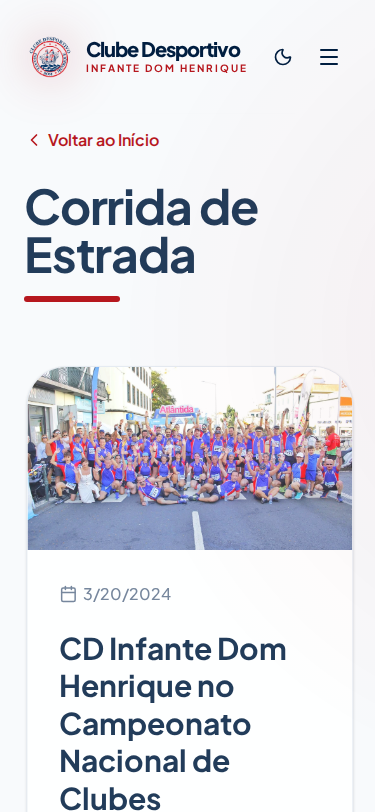
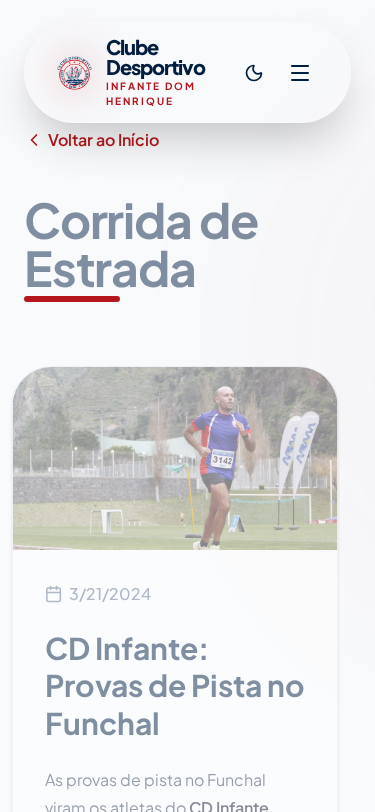
feat: automate post discovery and enhance example content
- Refactored content system to use Vite's `import.meta.glob` for automatic discovery of all `.md` files in `src/content/sports/`.
- Removed manual `index.json` manifest requirement.
- Relocated sports post template to `docs/templates/` with detailed usage guidelines.
- Generated additional authentic example posts for all 7 sports disciplines.
- Refined navigation logic to correctly handle absolute and hash links.
- Verified visual integrity and functionality via Playwright.

diff --git a/src/lib/content.ts b/src/lib/content.ts
@@ -24,20 +24,30 @@ interface FrontMatterAttributes {
 }
 
 /**
- * Fetches and parses a specific post's markdown file.
+ * Uses Vite's glob import to automatically discover all Markdown files in the
+ * src/content/sports directory. This ensures new posts are picked up without
+ * manual registration in a JSON manifest.
+ */
+const allPosts = import.meta.glob('../content/sports/**/*.md', { query: '?raw', import: 'default' });
+
+/**
+ * Fetches and parses a specific post's markdown content.
  *
  * @param sport - The directory name of the sport (e.g., 'handball').
  * @param slug - The filename of the post without the .md extension.
  * @returns A Post object.
  */
 export async function getPost(sport: string, slug: string): Promise<Post> {
-  const response = await fetch(`/content/sports/${sport}/${slug}.md`);
-  if (!response.ok) {
-    throw new Error(`Failed to fetch post: ${slug}`);
+  const path = `../content/sports/${sport}/${slug}.md`;
+  const fetcher = allPosts[path];
+
+  if (!fetcher) {
+    throw new Error(`Post not found: ${path}`);
   }
-  const text = await response.text();
+
+  const rawContent = await fetcher() as string;
   // @ts-expect-error front-matter return type
-  const { attributes, body } = fm(text);
+  const { attributes, body } = fm(rawContent);
 
   return {
     slug,
@@ -48,32 +58,27 @@ export async function getPost(sport: string, slug: string): Promise<Post> {
 }
 
 /**
- * Fetches the list of post filenames for a given sport from a manifest file.
- * Since we are in a static client-side environment, we'll use a `posts.json` manifest
- * per sport that needs to be updated or we will fetch it from an API/Search if available.
+ * Discovers all posts for a given sport by scanning the imported glob.
  *
- * For simplicity and GitHub editing friendliness, we'll recommend maintaining a
- * `posts.json` in each sport's directory or we could fetch the directory list
- * if the server allows it. In GitHub Pages/Vite, we can't easily list files at runtime
- * without an external API (like GitHub's).
- *
- * Strategy: A small JSON index file in each directory.
+ * @param sport - The directory name of the sport.
+ * @returns An array of Post objects sorted by date descending.
  */
 export async function getSportPosts(sport: string): Promise<Post[]> {
   try {
-    const response = await fetch(`/content/sports/${sport}/index.json`);
-    if (!response.ok) {
-      return [];
-    }
-    const { posts }: { posts: string[] } = await response.json();
+    const sportPrefix = `../content/sports/${sport}/`;
+    const sportPosts = Object.keys(allPosts).filter(path => path.startsWith(sportPrefix));
 
-    const postPromises = posts.map(slug => getPost(sport, slug));
-    const allPosts = await Promise.all(postPromises);
+    const postPromises = sportPosts.map(async (path) => {
+      const slug = path.split('/').pop()?.replace('.md', '') || '';
+      return getPost(sport, slug);
+    });
+
+    const results = await Promise.all(postPromises);
 
     // Sort by date descending
-    return allPosts.sort((a, b) => new Date(b.date).getTime() - new Date(a.date).getTime());
+    return results.sort((a, b) => new Date(b.date).getTime() - new Date(a.date).getTime());
   } catch (error) {
-    console.error(`Error fetching posts for ${sport}:`, error);
+    console.error(`Error discovering posts for ${sport}:`, error);
     return [];
   }
 }

diff --git a/tests/sports-pages.spec.ts b/tests/sports-pages.spec.ts
@@ -7,7 +7,6 @@ test('verify sports pages and navigation', async ({ page }) => {
   await expect(page.locator('h1')).toContainText('Clube Desportivo');
 
   // Find a sports card (Handball) and click it
-  // Need to be careful with "Andebol" vs "Andebol" if i18n is not set yet, but default is pt.
   const handballCard = page.locator('h3:has-text("Andebol")');
   await handballCard.click();
 
@@ -17,8 +16,9 @@ test('verify sports pages and navigation', async ({ page }) => {
   // Verify sport name is visible
   await expect(page.locator('h1')).toContainText('Andebol');
 
-  // Check if the post is loaded (using the title from the news)
-  await expect(page.locator('h2')).toContainText('Andebol em Destaque');
+  // Check if at least one post is loaded (titles are dynamic now)
+  const postTitle = page.locator('h2');
+  await expect(postTitle).not.toBeEmpty();
 
   // Go back home
   await page.click('text=Voltar ao Início');
@@ -29,7 +29,11 @@ test('verify sports pages and navigation', async ({ page }) => {
   await roadRunningCard.click();
   await expect(page).toHaveURL(/\/sports\/road-running/);
   await expect(page.locator('h1')).toContainText('Corrida de Estrada');
-  await expect(page.locator('h2')).toContainText('Campeonato Nacional de Clubes');
+
+  // Verify multiple posts exist in the sidebar
+  const sidebarPosts = page.locator('button h4');
+  const count = await sidebarPosts.count();
+  expect(count).toBeGreaterThanOrEqual(1);
 
   // Verify responsive view screenshot
   await page.setViewportSize({ width: 375, height: 812 });

diff --git a/src/App.tsx b/src/App.tsx
@@ -152,17 +152,28 @@ const NavItem = ({
   children: React.ReactNode;
   onClick?: () => void;
 }) => {
-  const isExternal = href.startsWith('http') || href.startsWith('#');
+  const isHash = href.startsWith('#');
+  const isAbsolute = href.startsWith('http');
 
-  if (isExternal) {
+  if (isAbsolute) {
+    return (
+      <a
+        href={href}
+        target="_blank"
+        rel="noopener noreferrer"
+        className="text-sm font-semibold text-brand-navy/70 hover:text-brand-red dark:text-slate-300 dark:hover:text-brand-red transition-all py-2 px-1 tracking-wide focus-visible:outline-2 focus-visible:outline-brand-red focus-visible:outline-offset-4 rounded-sm"
+      >
+        {children}
+      </a>
+    );
+  }
+
+  if (isHash) {
     return (
       <Link
         to={`/${href}`}
-        onClick={(e) => {
+        onClick={() => {
           if (onClick) onClick();
-          if (window.location.pathname !== '/') {
-            // Navigation handled by Link to /, but we might need to scroll after
-          }
         }}
         className="text-sm font-semibold text-brand-navy/70 hover:text-brand-red dark:text-slate-300 dark:hover:text-brand-red transition-all py-2 px-1 tracking-wide focus-visible:outline-2 focus-visible:outline-brand-red focus-visible:outline-offset-4 rounded-sm"
       >

diff --git a/docs/templates/sport_post_template.md b/docs/templates/sport_post_template.md
@@ -1,0 +1,30 @@
+# Sports Discipline Post Template
+
+Use this template as a guide to creating new posts for any sport.
+Save the file as `post-slug.md` in `src/content/sports/sport-name/`.
+
+```markdown
+---
+title: "Título Impactante"
+date: "YYYY-MM-DD"
+image: "/images/highlight-image.jpg"
+description: "Resumo curto do post para a lista de novidades."
+images:
+  - "/images/gallery-image-1.jpg"
+  - "/images/gallery-image-2.jpg"
+---
+
+O conteúdo do seu post em **Markdown** vai aqui.
+
+Pode incluir links para o [Facebook](https://www.facebook.com/CDInfante) ou outras redes sociais.
+
+Não se esqueça das hashtags: #CDInfante #Desporto #Madeira
+```
+
+### Guidelines
+
+1. **Title**: Keep it clear and engaging.
+2. **Date**: Use the `YYYY-MM-DD` format (e.g., `2024-03-25`).
+3. **Images**: You can use URLs or local paths from the `public/` folder.
+4. **Description**: This is what appears in the preview list. Keep it under 150 characters.
+5. **Slug**: The filename determines the URL part, use lowercase and hyphens (e.g., `nacional-judo-2024.md`).

diff --git a/src/content/sports/road-running/sao-silvestre.md b/src/content/sports/road-running/sao-silvestre.md
@@ -1,0 +1,13 @@
+---
+title: "CD Infante: São Silvestre do Funchal com Presença Forte"
+date: "2023-12-28"
+image: "https://scontent.ffnc2-1.fna.fbcdn.net/v/t39.30808-6/517385675_1243952650855070_7174172134004013214_n.jpg?_nc_cat=106&ccb=1-7&_nc_sid=13d280&_nc_ohc=Ht6miKefkLcQ7kNvwEF0PHR&_nc_oc=Adr-mJpcwFDsTfNJCMJkQ_3s4ITOvIuZ45iM85T5SyfFNlKAiEdmj2aZsOQaQZYU1n_vDUXwd0_t8U-db6nC64fK&_nc_zt=23&_nc_ht=scontent.ffnc2-1.fna&_nc_gid=edt5Fx1uqte6cp5ylp1Edg&_nc_ss=7a32e&oh=00_Afz0P2BPVRVnrvkC6-DOFQzos0iGlj_nTKsmQjgiuhIZ9w&oe=69C4DC6F"
+description: "Mais uma participação memorável na clássica São Silvestre do Funchal pelos nossos corredores de estrada."
+images: []
+---
+
+A noite do Funchal brilhou com a passagem dos atletas do CD Infante Dom Henrique na mítica prova de São Silvestre. Dezenas de corredores do nosso clube participaram nesta festa do atletismo regional.
+
+O convívio e a alegria de correr pelas ruas iluminadas do Funchal marcam sempre esta prova especial do nosso calendário.
+
+#SaoSilvestre #Funchal #Infante #Atletismo

diff --git a/src/content/sports/judo/graduacoes-primavera.md b/src/content/sports/judo/graduacoes-primavera.md
@@ -1,0 +1,13 @@
+---
+title: "Judo em Foco: Graduações de Primavera"
+date: "2024-03-25"
+image: "https://scontent.ffnc2-1.fna.fbcdn.net/v/t39.30808-6/555491580_1308130501103951_8891449616780622006_n.jpg?_nc_cat=108&ccb=1-7&_nc_sid=13d280&_nc_ohc=xpgmdzP878QQ7kNvwGqRCtl&_nc_oc=AdpZXSWk7KiCW8K_3r5nPpQIUwNVXwZIEA8mZ6KAyQV79FxhlN2w0wYfUaRJw7J8JbV9zi6pPpzd3hzM&_nc_zt=23&_nc_ht=scontent.ffnc2-1.fna&_nc_gid=RlJQhi2lOGz7RGJbsYe7qg&_nc_ss=7a32e&oh=00_Afw8Nv5rABDDlnu75o-3dZasO6hSls7UNaRKrSBQbVSfxQ&oe=69C4E034"
+description: "Mais um passo na evolução dos nossos atletas de judo com a entrega de novas graduações."
+images: []
+---
+
+É com enorme orgulho que celebramos a entrega das novas graduações aos nossos atletas da secção de judo. Cada cinto representa meses de esforço, dedicação e superação constante.
+
+Muitos parabéns a todos os atletas pela sua evolução e aos mestres pelo excelente trabalho desenvolvido na nossa formação.
+
+#Judo #Infante #Graduacoes #DesportoMadeira

diff --git a/src/content/sports/handball/andebol-senior.md b/src/content/sports/handball/andebol-senior.md
@@ -1,0 +1,13 @@
+---
+title: "CD Infante: Andebol Sénior Masculino em Destaque"
+date: "2024-03-24"
+image: "https://scontent.ffnc2-1.fna.fbcdn.net/v/t39.30808-6/518312337_1247530197163982_3412159863800210848_n.jpg?stp=cp6_dst-jpg_tt6&_nc_cat=110&ccb=1-7&_nc_sid=13d280&_nc_ohc=P0ZNf1iZLmsQ7kNvwEH3V3h&_nc_oc=Adrg-UbPIRXcVfohDjcg4RXVq3yZ1ROBlS-2GtIrtCgBwzbfyLNua36NaWGgf87cgKTQBWrqMVHBOCTrC1gCsz61&_nc_zt=23&_nc_ht=scontent.ffnc2-1.fna&_nc_gid=pNOZlqjyp9xfOdE8ibhIsQ&_nc_ss=7a32e&oh=00_AfwZIPqzhGQFtoaCdMBXEZQxDUnOnDtT2oghbaFYa9ZavQ&oe=69C4D3D0"
+description: "Mais uma jornada de superação e espírito de equipa no andebol sénior masculino do Infante."
+images: []
+---
+
+As nossas equipas de andebol sénior continuam a lutar com brio nas competições regionais. A garra demonstrada em campo é o reflexo de todo o trabalho realizado nos treinos semanais.
+
+Contamos com o vosso apoio no pavilhão para empurrar as nossas equipas para a vitória!
+
+#Andebol #CDInfante #Senior #Desporto

diff --git a/src/content/sports/trail-running/trail-calheta.md b/src/content/sports/trail-running/trail-calheta.md
@@ -1,0 +1,13 @@
+---
+title: "CD Infante: Trail da Calheta em Grande Estilo"
+date: "2024-03-27"
+image: "https://scontent.ffnc2-1.fna.fbcdn.net/v/t39.30808-6/510277858_1230731038843898_1160586756874725884_n.jpg?_nc_cat=100&ccb=1-7&_nc_sid=13d280&_nc_ohc=osLbrT2WYiQQ7kNvwGdugV_&_nc_oc=AdrR4Zgu6Z39yazK8fn90AgCbDaZm_j4fkd8oka_NecDB_Y-bABfo2rAT35oWTDIMLmW1c618Wngv4XdwivATKC6&_nc_zt=23&_nc_ht=scontent.ffnc2-1.fna&_nc_gid=OYE2Y_lhBM1JepwoxX7hoQ&_nc_ss=7a32e&oh=00_AfxFExCt3JewNI48lUiueF16z4MUPIXkPoiD-XxENXhZQw&oe=69C4D9E1"
+description: "Mais um desafio vencido nos trilhos da Calheta pelos nossos corredores de trail running."
+images: []
+---
+
+Os trilhos da Calheta receberam o CD Infante Dom Henrique para mais um evento de trail running memorável. Os nossos atletas cruzaram a meta com orgulho, representando as cores do nosso clube.
+
+Parabéns a todos os participantes pela determinação e garra em cada subida e descida técnica.
+
+#TrailRunning #Infante #Calheta #DesportoMadeira

diff --git a/src/content/sports/road-running/provas-pista.md b/src/content/sports/road-running/provas-pista.md
@@ -1,0 +1,13 @@
+---
+title: "CD Infante: Provas de Pista no Funchal"
+date: "2024-03-21"
+image: "https://scontent.ffnc2-1.fna.fbcdn.net/v/t39.30808-6/649290213_1439487161301617_5655099727395803523_n.jpg?_nc_cat=103&ccb=1-7&_nc_sid=13d280&_nc_ohc=eACygkDOTs0Q7kNvwFWjhMo&_nc_oc=AdpT-TJG4dcm2IM5vq-NpYvDKoCBm-gXn-7DDzfe2CIRw_WJbHASTBj4S648xGZ1HP4h1-ABiyHdfF8eRcsNsHWE&_nc_zt=23&_nc_ht=scontent.ffnc2-1.fna&_nc_gid=JgKuhD5JM0_XABj8ZLNKCw&_nc_ss=7a32e&oh=00_Afz823wvgXEumZTikjsntonhAW-KDC78Y91yMHuPHOlOsw&oe=69C4D5EC"
+description: "Resultados expressivos dos nossos atletas de atletismo nas provas de pista regional."
+images: []
+---
+
+As provas de pista no Funchal viram os atletas do **CD Infante Dom Henrique** alcançar marcas pessoais de destaque. O esforço e a dedicação demonstrada nos treinos estão a dar frutos em pista.
+
+Um agradecimento especial aos nossos treinadores pela paciência e orientação constante rumo à evolução.
+
+#Atletismo #Infante #Pista #Resultados

diff --git a/src/content/sports/trail-running/trail-curral.md b/src/content/sports/trail-running/trail-curral.md
@@ -1,0 +1,13 @@
+---
+title: "CD Infante: Trail e Montanha em Destaque no Curral"
+date: "2024-03-23"
+image: "https://scontent.ffnc2-1.fna.fbcdn.net/v/t39.30808-6/510277858_1230731038843898_1160586756874725884_n.jpg?_nc_cat=100&ccb=1-7&_nc_sid=13d280&_nc_ohc=osLbrT2WYiQQ7kNvwGdugV_&_nc_oc=AdrR4Zgu6Z39yazK8fn90AgCbDaZm_j4fkd8oka_NecDB_Y-bABfo2rAT35oWTDIMLmW1c618Wngv4XdwivATKC6&_nc_zt=23&_nc_ht=scontent.ffnc2-1.fna&_nc_gid=OYE2Y_lhBM1JepwoxX7hoQ&_nc_ss=7a32e&oh=00_AfxFExCt3JewNI48lUiueF16z4MUPIXkPoiD-XxENXhZQw&oe=69C4D9E1"
+description: "Mais uma participação memorável dos nossos atletas de trail no Curral das Freiras."
+images: []
+---
+
+Os atletas da nossa secção de trail running estiveram no Curral das Freiras para mais uma prova de trail e montanha de elevado nível técnico.
+
+A resiliência de todos os nossos corredores demonstra que o **CD Infante** está bem preparado para os trilhos mais exigentes da ilha.
+
+#TrailRunning #Montanha #Infante #CurralDasFreiras

diff --git a/src/content/sports/skyrunning/skyrunning-cumes.md b/src/content/sports/skyrunning/skyrunning-cumes.md
@@ -1,0 +1,13 @@
+---
+title: "CD Infante: Skyrunning nos Cumes da Ilha"
+date: "2024-03-28"
+image: "https://scontent.ffnc2-1.fna.fbcdn.net/v/t39.30808-6/510277858_1230731038843898_1160586756874725884_n.jpg?_nc_cat=100&ccb=1-7&_nc_sid=13d280&_nc_ohc=osLbrT2WYiQQ7kNvwGdugV_&_nc_oc=AdrR4Zgu6Z39yazK8fn90AgCbDaZm_j4fkd8oka_NecDB_Y-bABfo2rAT35oWTDIMLmW1c618Wngv4XdwivATKC6&_nc_zt=23&_nc_ht=scontent.ffnc2-1.fna&_nc_gid=OYE2Y_lhBM1JepwoxX7hoQ&_nc_ss=7a32e&oh=00_AfxFExCt3JewNI48lUiueF16z4MUPIXkPoiD-XxENXhZQw&oe=69C4D9E1"
+description: "A nossa equipa de skyrunning alcança novos patamares nas provas de montanha mais elevadas."
+images: []
+---
+
+As provas de Skyrunning exigem resiliência e foco absoluto nos cumes mais elevados da nossa ilha. O **Clube Desportivo Infante Dom Henrique** marcou presença forte em mais um evento de destaque regional.
+
+O espírito de equipa e a paixão pela montanha elevaram as nossas cores até ao topo!
+
+#Skyrunning #Infante #Montanha #Superacao

diff --git a/src/content/sports/track-field/pista-marco.md b/src/content/sports/track-field/pista-marco.md
@@ -1,0 +1,13 @@
+---
+title: "CD Infante: Provas de Atletismo em Pista"
+date: "2024-03-24"
+image: "https://scontent.ffnc2-1.fna.fbcdn.net/v/t39.30808-6/649290213_1439487161301617_5655099727395803523_n.jpg?_nc_cat=103&ccb=1-7&_nc_sid=13d280&_nc_ohc=eACygkDOTs0Q7kNvwFWjhMo&_nc_oc=AdpT-TJG4dcm2IM5vq-NpYvDKoCBm-gXn-7DDzfe2CIRw_WJbHASTBj4S648xGZ1HP4h1-ABiyHdfF8eRcsNsHWE&_nc_zt=23&_nc_ht=scontent.ffnc2-1.fna&_nc_gid=JgKuhD5JM0_XABj8ZLNKCw&_nc_ss=7a32e&oh=00_Afz823wvgXEumZTikjsntonhAW-KDC78Y91yMHuPHOlOsw&oe=69C4D5EC"
+description: "Mais um conjunto de recordes pessoais batidos pelos nossos atletas nas provas de pista."
+images: []
+---
+
+A dedicação dos nossos atletas de pista é notável em cada treino no Funchal. Os resultados têm sido expressivos em todas as distâncias, desde a velocidade até ao meio-fundo.
+
+Muitos parabéns a todos os atletas e treinadores pelos excelentes resultados alcançados!
+
+#Atletismo #Infante #Pista #RecordesPessoais
